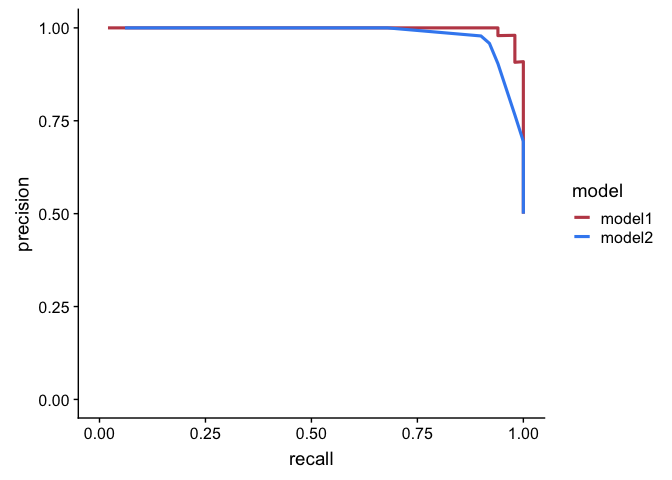
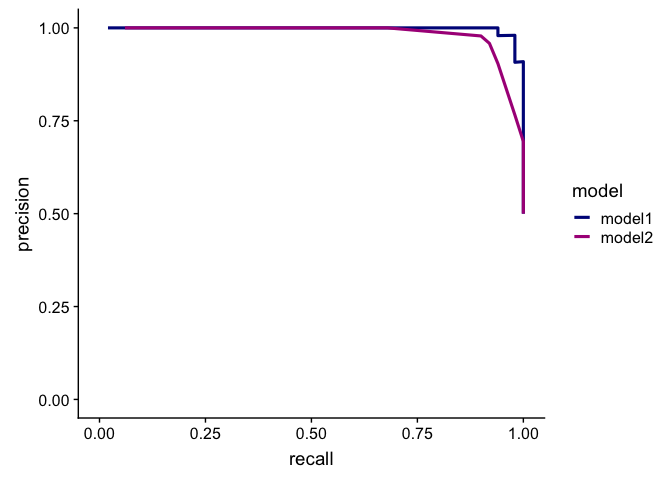
changed line colors

Changed region(s): [[0.1562, 0.0312, 0.7812, 0.4375], [0.8438, 0.4375, 0.875, 0.5]]

diff --git a/README.md b/README.md
@@ -61,7 +61,7 @@ Examples
       make_roc(predictor = .fitted, known_class = Species) %>% # get values to plot an ROC curve
       ggplot(aes(x = fpr, y = tpr, color = model)) +
       geom_line(size = 1.1) +
-      scale_color_manual(values = c("#C04A56", "#3D8CF1")) +
+      scale_color_manual(values = c("#001889", "#AB1488")) +
       theme_cowplot()
 
 ![](README_files/figure-markdown_strict/unnamed-chunk-1-1.png)
@@ -75,7 +75,7 @@ Examples
       ggplot(aes(x = recall, y = precision, color = model)) +
       geom_line(size = 1.1) +
       coord_cartesian(ylim = c(0,1), xlim = c(0,1)) +
-      scale_color_manual(values = c("#C04A56", "#3D8CF1")) +
+      scale_color_manual(values = c("#001889", "#AB1488")) +
       theme_cowplot()
 
 ![](README_files/figure-markdown_strict/unnamed-chunk-2-1.png)
